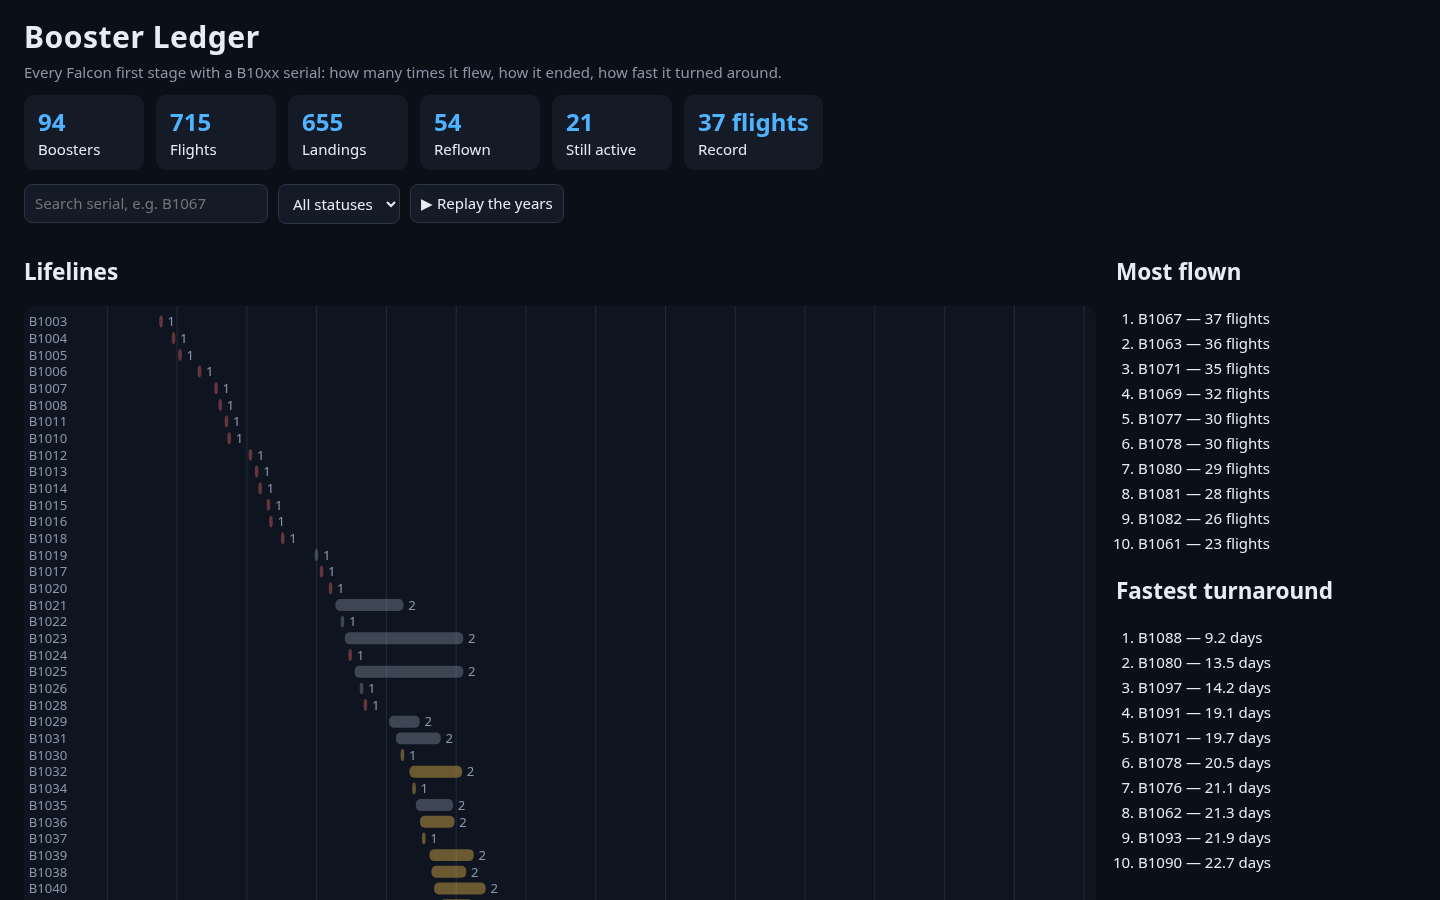
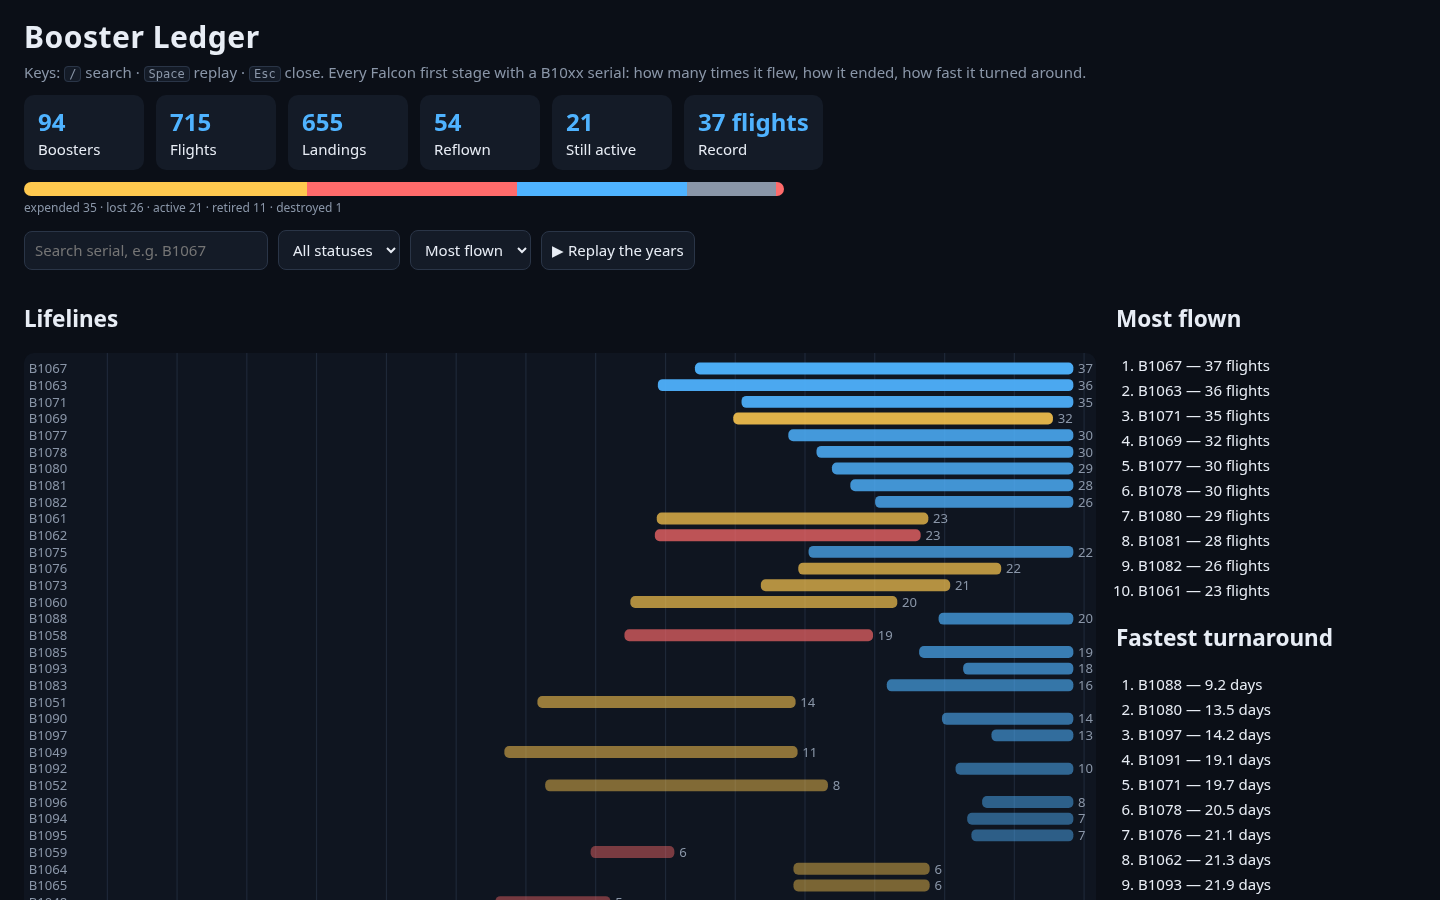
v0.2: sort modes, fate bar, deep links, keyboard, rank+landing rate; 46 unit / 15 e2e

diff --git a/src/app.js b/src/app.js
@@ -1,4 +1,4 @@
-import { load, leaderboard, fastestTurnarounds, statusCounts, fleetStats, filter, yearRange, activeAt, flightsPerYear } from './ledger.js';
+import { load, leaderboard, fastestTurnarounds, statusCounts, fleetStats, filter, yearRange, activeAt, flightsPerYear, sortBy, rankOf, landingRate, fateBreakdown, serialFromHash } from './ledger.js';
 const snap = await (await fetch('boosters.json')).json();
 const all = load(snap);
 const $ = id => document.getElementById(id);
@@ -11,7 +11,7 @@ function stats(bs) {
 }
 function lanes(bs) {
   const [y0, y1] = yearRange(all), t0 = Date.UTC(y0, 0), t1 = Date.UTC(y1 + 1, 0);
-  const rows = [...bs].sort((a, b) => a.firstMs - b.firstMs), W = 900, H = 14 * rows.length + 30;
+  const rows = sortBy(bs, $('sort').value), W = 900, H = 14 * rows.length + 30;
   const x = t => 70 + (W - 80) * (t - t0) / (t1 - t0);
   let g = '';
   for (let y = y0; y <= y1 + 1; y++) g += `<line x1="${x(Date.UTC(y,0))}" y1="0" x2="${x(Date.UTC(y,0))}" y2="${H-18}" stroke="#1e2838"/><text x="${x(Date.UTC(y,0))+2}" y="${H-4}" fill="#8a96a8" font-size="11">${y}</text>`;
@@ -30,22 +30,38 @@ function lists(bs) {
   document.querySelectorAll('li[data-s]').forEach(el => el.onclick = () => open(el.dataset.s));
 }
 function open(s) {
-  const b = all.find(x => x.serial === s), fpy = flightsPerYear(b);
-  $('detail').innerHTML = `<h2>${b.serial}</h2><p>Status: <b>${b.status}</b></p><p>${b.flights} flights · ${b.landings_ok}/${b.landings_attempted ?? '?'} landings</p>
+  const b = all.find(x => x.serial === s); if (!b) return; const fpy = flightsPerYear(b), lr = landingRate(b); history.replaceState(null, '', '#' + s);
+  $('detail').innerHTML = `<h2>${b.serial}</h2><p>Status: <b>${b.status}</b> · #${rankOf(all, b.serial)} of ${all.length} by flights${lr != null ? ` · ${Math.round(lr*100)}% landings` : ''}</p><p>${b.flights} flights · ${b.landings_ok}/${b.landings_attempted ?? '?'} landings</p>
   <p>First flight ${b.first?.slice(0,10)} · last ${b.last?.slice(0,10)}</p><p>Fastest turnaround: ${b.turnaroundDays?.toFixed(1) ?? '—'} days${fpy ? ` · ${fpy.toFixed(1)} flights/yr` : ''}</p>
   <p class="sub">${b.details || ''}</p><p><a href="${b.source}" target="_blank" rel="noopener">Source record</a></p>`;
   $('drawer').showModal();
 }
+function fate(bs) {
+  const f = fateBreakdown(bs);
+  $('fate').innerHTML = f.map(x => `<span title="${x.status}: ${x.count}" style="width:${x.share*100}%;background:${COL[x.status] || '#8a96a8'}"></span>`).join('');
+  $('fate').insertAdjacentHTML('afterend', '');
+  let lg = document.getElementById('legend'); if (!lg) { lg = document.createElement('div'); lg.id = 'legend'; lg.className = 'legend'; $('fate').after(lg); }
+  lg.textContent = f.map(x => `${x.status} ${x.count}`).join(' · ');
+}
 function render() {
   const bs = filter(all, { q: $('q').value, status: $('status').value });
-  stats(bs); lanes(bs); lists(bs);
+  stats(bs); fate(bs); lanes(bs); lists(bs);
 }
 for (const k of Object.keys(statusCounts(all))) $('status').insertAdjacentHTML('beforeend', `<option value="${k}">${k}</option>`);
-$('q').oninput = $('status').onchange = render; $('close').onclick = () => $('drawer').close();
+$('q').oninput = $('status').onchange = $('sort').onchange = render; $('close').onclick = () => $('drawer').close();
+let playing = false;
 $('play').onclick = async () => {
+  if (playing) return; playing = true;
   const [y0, y1] = yearRange(all);
   for (let y = y0; y <= y1; y++) { cutoff = Date.UTC(y + 1, 0); $('year').textContent = `${y} · ${activeAt(all, cutoff).length} flying`; render(); await new Promise(r => setTimeout(r, 450)); }
-  cutoff = Infinity; $('year').textContent = ''; render();
+  cutoff = Infinity; $('year').textContent = ''; render(); playing = false;
 };
 $('src').innerHTML = `Data: <a href="https://thespacedevs.com/llapi">${snap.source}</a>, snapshot ${snap.fetched_at.slice(0,10)}. Unofficial; not affiliated with SpaceX.`;
 render();
+document.addEventListener('keydown', e => {
+  if (e.target.matches('input,select')) { if (e.key === 'Escape') e.target.blur(); return; }
+  if (e.key === '/') { e.preventDefault(); $('q').focus(); }
+  else if (e.key === ' ') { e.preventDefault(); $('play').click(); }
+});
+$('drawer').addEventListener('close', () => history.replaceState(null, '', location.pathname));
+const deep = serialFromHash(location.hash); if (deep) open(deep);

diff --git a/test/v02.test.js b/test/v02.test.js
@@ -1,0 +1,25 @@
+import { describe, it, expect } from 'vitest'; import fs from 'node:fs'; import * as L from '../src/ledger.js';
+const all = L.load(JSON.parse(fs.readFileSync('src/boosters.json', 'utf8')));
+const mk = o => L.normalize({ serial: 'B1', flights: 1, landings_ok: 1, landings_attempted: 1, status: 'active', first: '2020-01-01T00:00:00Z', last: '2021-01-01T00:00:00Z', ...o });
+describe('sortBy', () => {
+  const bs = [mk({ serial: 'B1', flights: 2, first: '2019-01-01T00:00:00Z' }), mk({ serial: 'B2', flights: 9, first: '2022-01-01T00:00:00Z' })];
+  it('flights', () => expect(L.sortBy(bs, 'flights')[0].serial).toBe('B2'));
+  it('first', () => expect(L.sortBy(bs, 'first')[0].serial).toBe('B1'));
+  it('newest', () => expect(L.sortBy(bs, 'newest')[0].serial).toBe('B2'));
+  it('default is flights', () => expect(L.sortBy(bs)[0].serial).toBe('B2'));
+  it('unknown throws', () => expect(() => L.sortBy(bs, 'x')).toThrow());
+  it('does not mutate', () => { const c = [...bs]; L.sortBy(bs, 'newest'); expect(bs).toEqual(c); });
+});
+describe('rankOf / landingRate / fate', () => {
+  it('rank 1 is the record holder', () => expect(L.rankOf(all, L.leaderboard(all, 1)[0].serial)).toBe(1));
+  it('unknown rank null', () => expect(L.rankOf(all, 'B0000')).toBeNull());
+  it('landing rate', () => expect(L.landingRate(mk({ landings_ok: 3, landings_attempted: 4 }))).toBe(.75));
+  it('no attempts -> null', () => expect(L.landingRate(mk({ landings_attempted: 0 }))).toBeNull());
+  it('fate shares sum to 1', () => expect(L.fateBreakdown(all).reduce((s, x) => s + x.share, 0)).toBeCloseTo(1));
+  it('fate sorted desc', () => { const f = L.fateBreakdown(all); for (let i = 1; i < f.length; i++) expect(f[i-1].count).toBeGreaterThanOrEqual(f[i].count); });
+  it('fate empty', () => expect(L.fateBreakdown([])).toEqual([]));
+});
+describe('serialFromHash', () => {
+  it('parses', () => expect(L.serialFromHash('#b1067')).toBe('B1067'));
+  it('rejects junk', () => { expect(L.serialFromHash('#<script>')).toBeNull(); expect(L.serialFromHash('')).toBeNull(); });
+});

diff --git a/e2e/v02.spec.js b/e2e/v02.spec.js
@@ -1,0 +1,17 @@
+import { test, expect } from '@playwright/test';
+test('default sort puts record holder first', async ({ page }) => {
+  await page.goto('/'); const first = await page.locator('.lane').first().getAttribute('data-s');
+  await expect(page.locator('#top li').first()).toContainText(first);
+});
+test('sort select changes order', async ({ page }) => {
+  await page.goto('/'); const a = await page.locator('.lane').first().getAttribute('data-s');
+  await page.selectOption('#sort', 'first'); const b = await page.locator('.lane').first().getAttribute('data-s'); expect(a).not.toBe(b);
+});
+test('fate bar and legend', async ({ page }) => { await page.goto('/'); expect(await page.locator('#fate span').count()).toBeGreaterThan(1); await expect(page.locator('#legend')).toContainText('active'); });
+test('deep link opens drawer', async ({ page }) => { await page.goto('/#B1067'); await expect(page.locator('#drawer')).toBeVisible(); await expect(page.locator('#detail')).toContainText('#1 of'); });
+test('slash focuses search, Esc closes drawer', async ({ page }) => {
+  await page.goto('/'); await page.locator('body').press('/'); await expect(page.locator('#q')).toBeFocused();
+  await page.goto('/#B1063'); await page.keyboard.press('Escape'); await expect(page.locator('#drawer')).toBeHidden();
+});
+test('space starts replay', async ({ page }) => { await page.goto('/'); await page.locator('body').press(' '); await expect(page.locator('#year')).toContainText('flying'); });
+test('bad hash is ignored', async ({ page }) => { await page.goto('/#B9999'); await expect(page.locator('#drawer')).toBeHidden(); });

diff --git a/src/index.html b/src/index.html
@@ -1,8 +1,9 @@
 <!doctype html><html lang="en"><head><meta charset="utf-8"><meta name="viewport" content="width=device-width,initial-scale=1">
 <title>Booster Ledger — Falcon reuse, flight by flight</title><link rel="stylesheet" href="style.css"></head>
-<body><header><h1>Booster Ledger</h1><p class="sub">Every Falcon first stage with a B10xx serial: how many times it flew, how it ended, how fast it turned around.</p></header>
-<section id="stats" aria-label="fleet stats"></section>
+<body><header><h1>Booster Ledger</h1><p class="sub">Keys: <kbd>/</kbd> search · <kbd>Space</kbd> replay · <kbd>Esc</kbd> close. Every Falcon first stage with a B10xx serial: how many times it flew, how it ended, how fast it turned around.</p></header>
+<section id="stats" aria-label="fleet stats"></section><div id="fate" aria-label="how boosters ended"></div>
 <section class="controls"><input id="q" placeholder="Search serial, e.g. B1067" aria-label="search"><select id="status" aria-label="status"><option value="all">All statuses</option></select>
+<select id="sort" aria-label="sort"><option value="flights">Most flown</option><option value="first">First flight</option><option value="newest">Newest</option></select>
 <button id="play" aria-label="replay">▶ Replay the years</button><span id="year" aria-live="polite"></span></section>
 <main><section><h2>Lifelines</h2><svg id="lanes" role="img" aria-label="booster lifelines"></svg></section>
 <aside><h2>Most flown</h2><ol id="top"></ol><h2>Fastest turnaround</h2><ol id="fast"></ol></aside></main>

diff --git a/src/ledger.js b/src/ledger.js
@@ -56,3 +56,27 @@ export function yearRange(bs) {
   const ys = bs.flatMap(b => [b.firstMs, b.lastMs]).filter(Boolean).map(t => new Date(t).getUTCFullYear());
   return [Math.min(...ys), Math.max(...ys)];
 }
+export const SORTS = {
+  flights: (a, b) => b.flights - a.flights || a.serial.localeCompare(b.serial),
+  first: (a, b) => a.firstMs - b.firstMs || a.serial.localeCompare(b.serial),
+  newest: (a, b) => b.firstMs - a.firstMs || a.serial.localeCompare(b.serial),
+};
+export function sortBy(bs, key = 'flights') {
+  if (!SORTS[key]) throw new Error(`unknown sort ${key}`);
+  return [...bs].sort(SORTS[key]);
+}
+export function rankOf(bs, serial) {
+  const i = leaderboard(bs, bs.length).findIndex(b => b.serial === serial);
+  return i < 0 ? null : i + 1;
+}
+export function landingRate(b) {
+  return b.landings_attempted ? b.landings_ok / b.landings_attempted : null;
+}
+export function fateBreakdown(bs) {
+  const c = statusCounts(bs), n = bs.length || 1;
+  return Object.entries(c).sort((a, b) => b[1] - a[1]).map(([status, count]) => ({ status, count, share: count / n }));
+}
+export function serialFromHash(hash) {
+  const m = /^#(B10\d\d)$/i.exec(hash || '');
+  return m ? m[1].toUpperCase() : null;
+}

diff --git a/src/style.css b/src/style.css
@@ -9,3 +9,5 @@ ol{padding-left:22px;margin:4px 0 14px}li{cursor:pointer;padding:2px 0}li:hover{
 footer{color:var(--mut);font-size:12px;margin-top:16px}footer a{color:var(--acc)}
 dialog{background:#141b27;color:var(--fg);border:1px solid #2a3547;border-radius:12px;max-width:440px}
 @media (max-width:700px){main{grid-template-columns:1fr}body{padding:10px}h1{font-size:24px}}
+#fate{display:flex;height:14px;border-radius:7px;overflow:hidden;margin-top:12px;max-width:760px}#fate span{display:block;height:100%}.legend{color:var(--mut);font-size:12px;margin-top:4px}kbd{background:#141b27;border:1px solid #2a3547;border-radius:4px;padding:0 4px;font-size:12px}
+#detail a{color:var(--acc)}main>section{overflow:auto;max-height:76vh}
